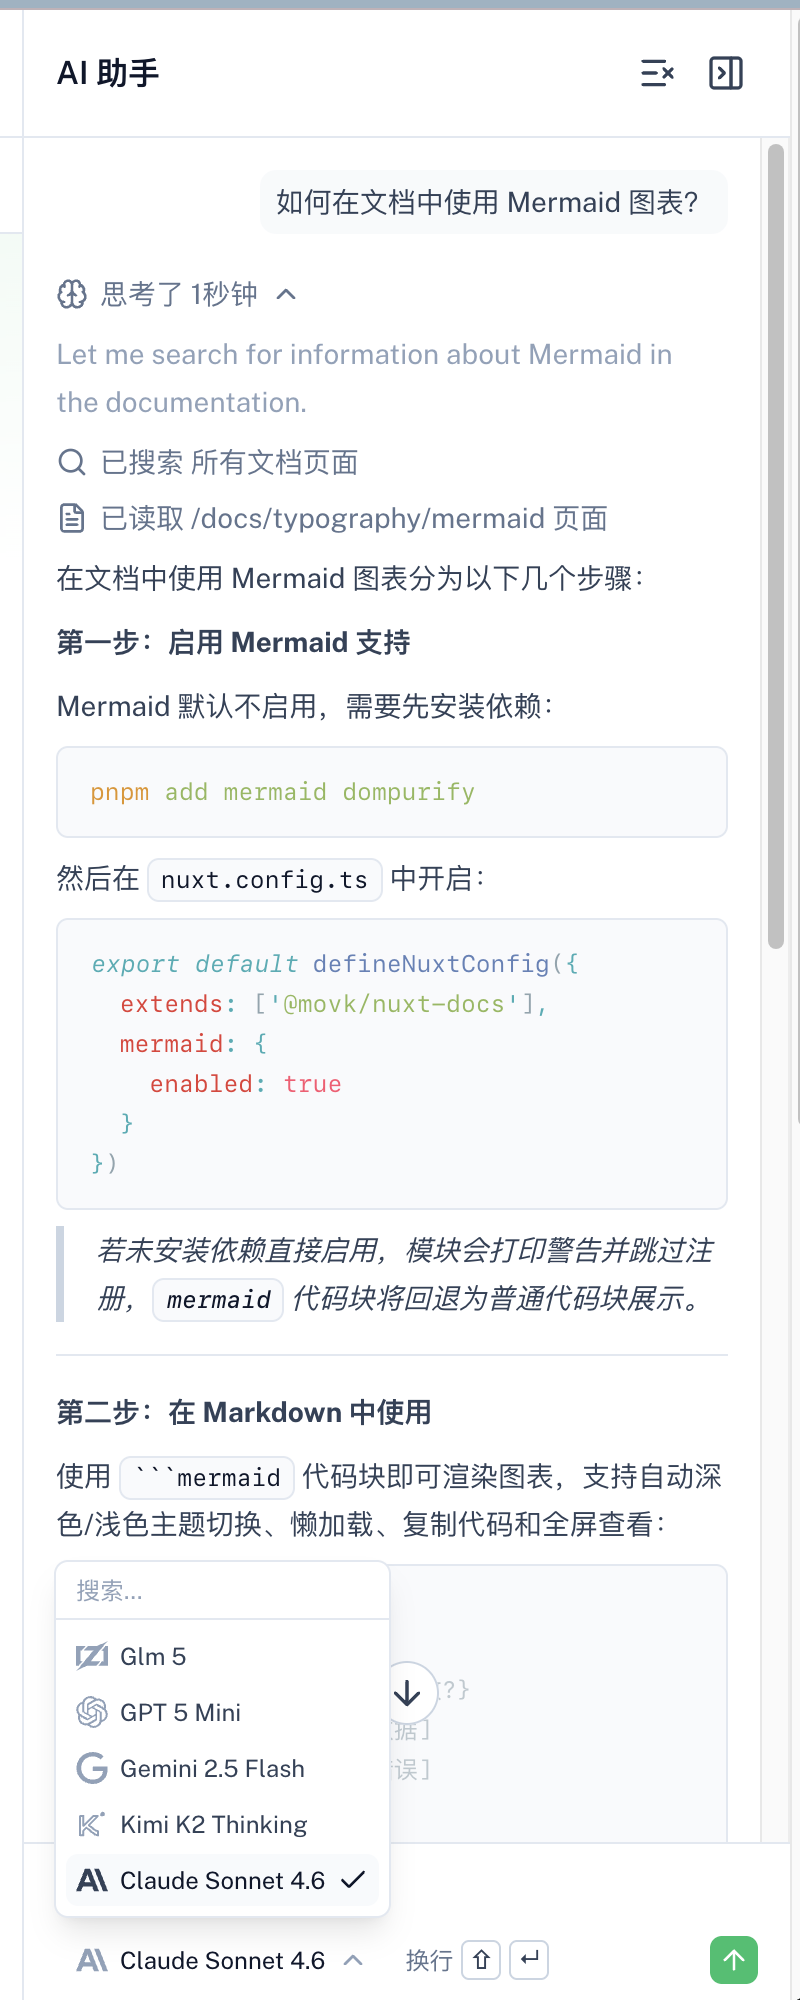
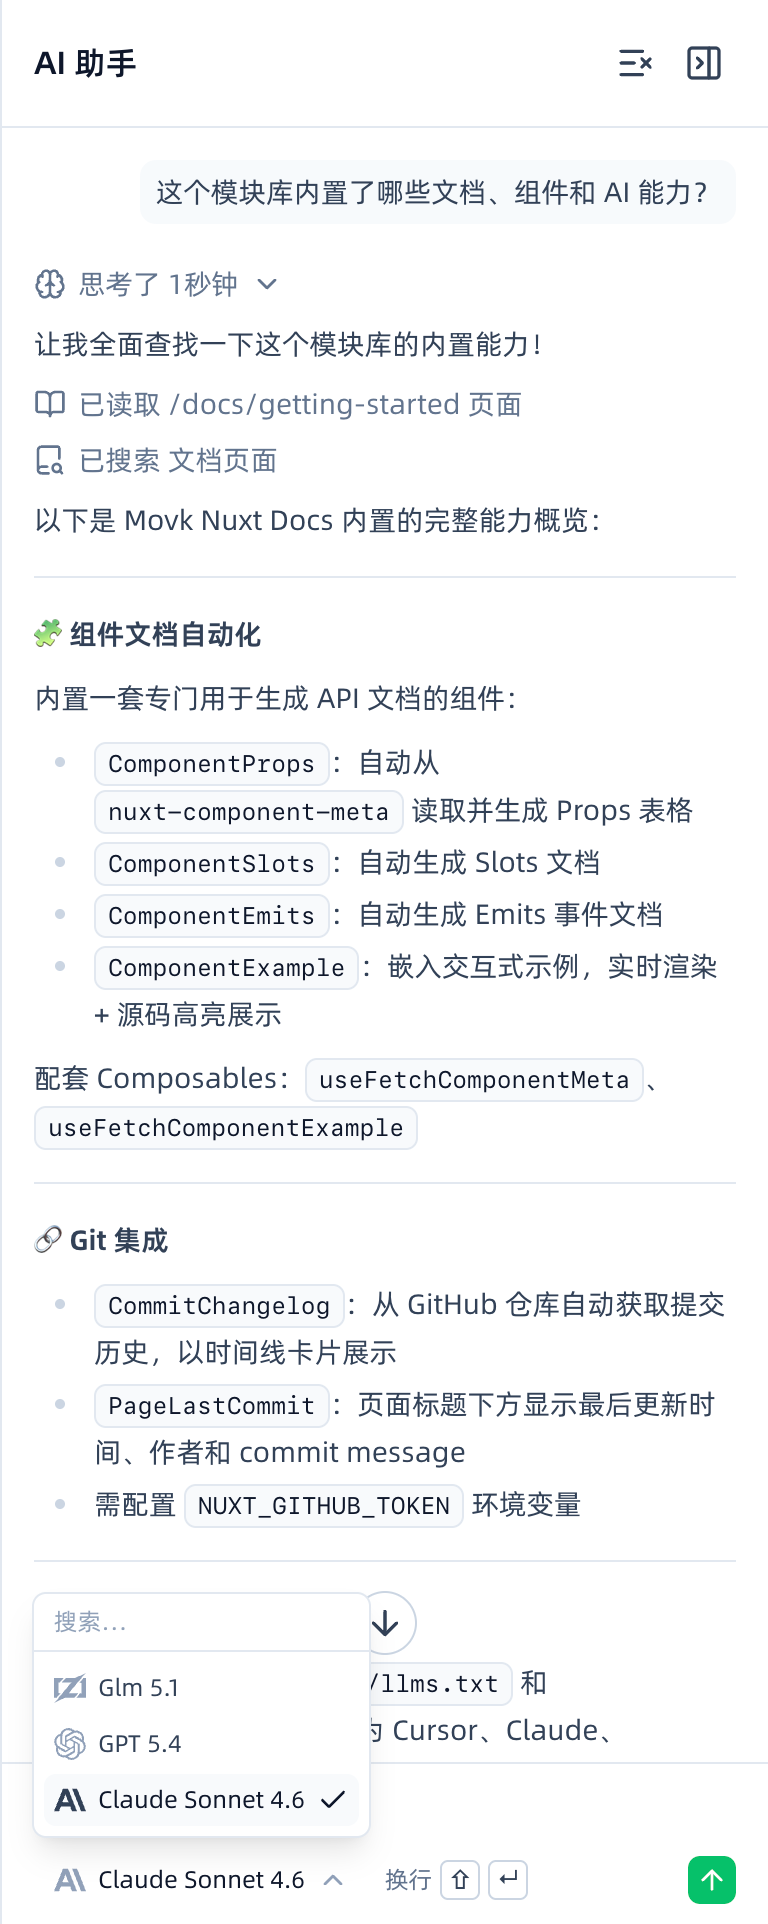
chore(ai-chat): 更新可选模型列表并替换示例截图
- nuxt.config.ts 的 aiChat.models 收敛为 zai/glm-5.1、openai/gpt-5.4、anthropic/claude-sonnet-4.6，移除已停用的旧模型 ID
- 同步替换 docs/public/ai/AiChat.png 截图以反映新的模型下拉与最新对话样式

diff --git a/docs/nuxt.config.ts b/docs/nuxt.config.ts
@@ -25,10 +25,8 @@ export default defineNuxtConfig({
   aiChat: {
     model: 'anthropic/claude-sonnet-4.6',
     models: [
-      'zai/glm-5',
-      'openai/gpt-5-mini',
-      'google/gemini-2.5-flash',
-      'moonshotai/kimi-k2-thinking',
+      'zai/glm-5.1',
+      'openai/gpt-5.4',
       'anthropic/claude-sonnet-4.6'
     ]
   },
